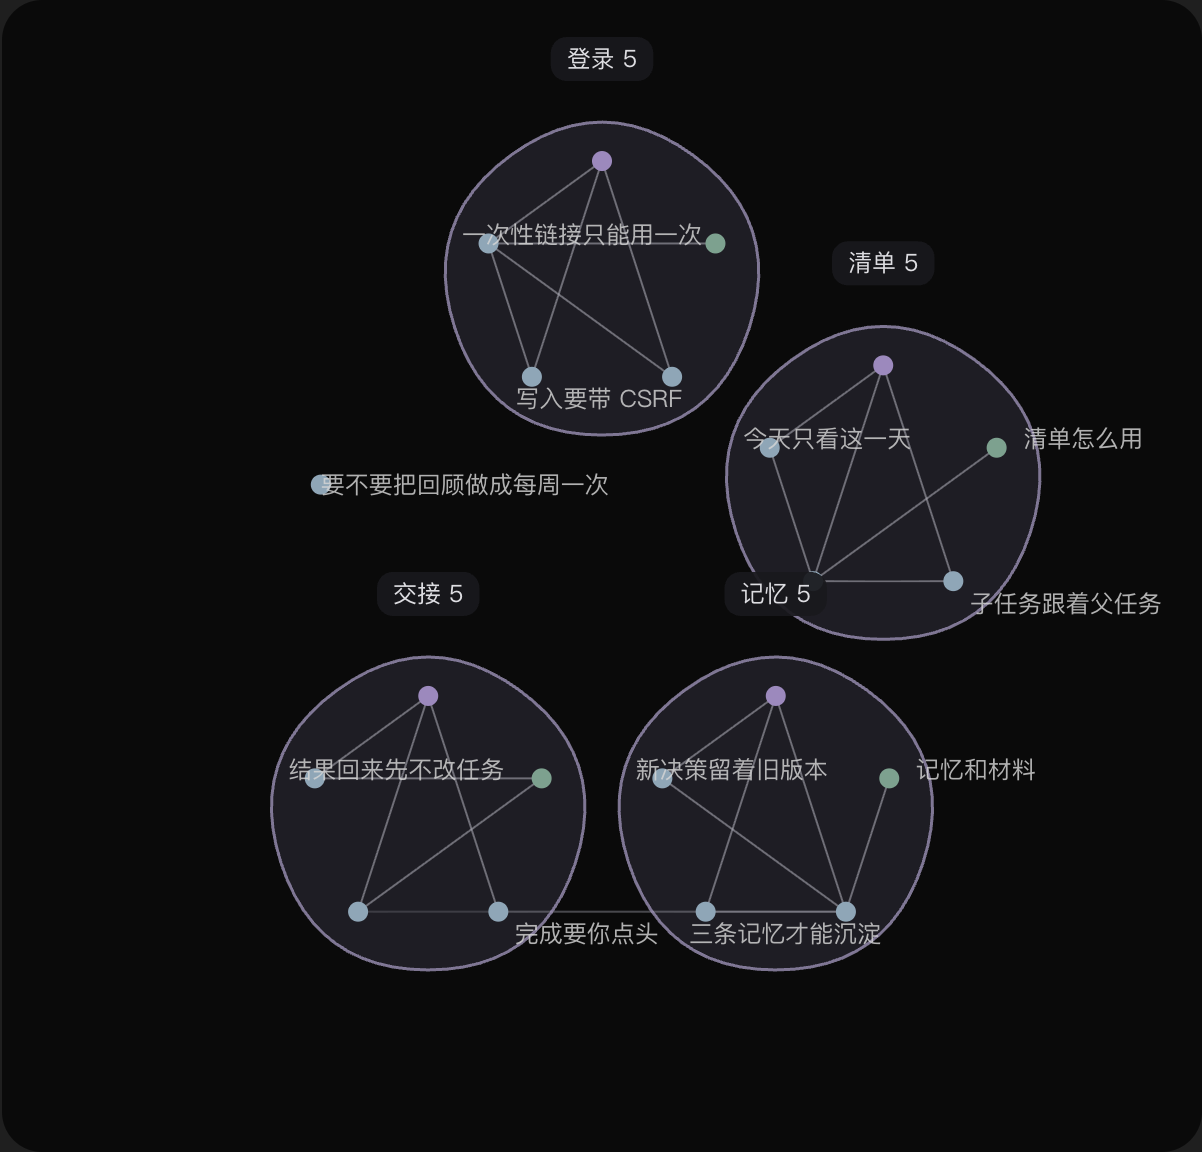
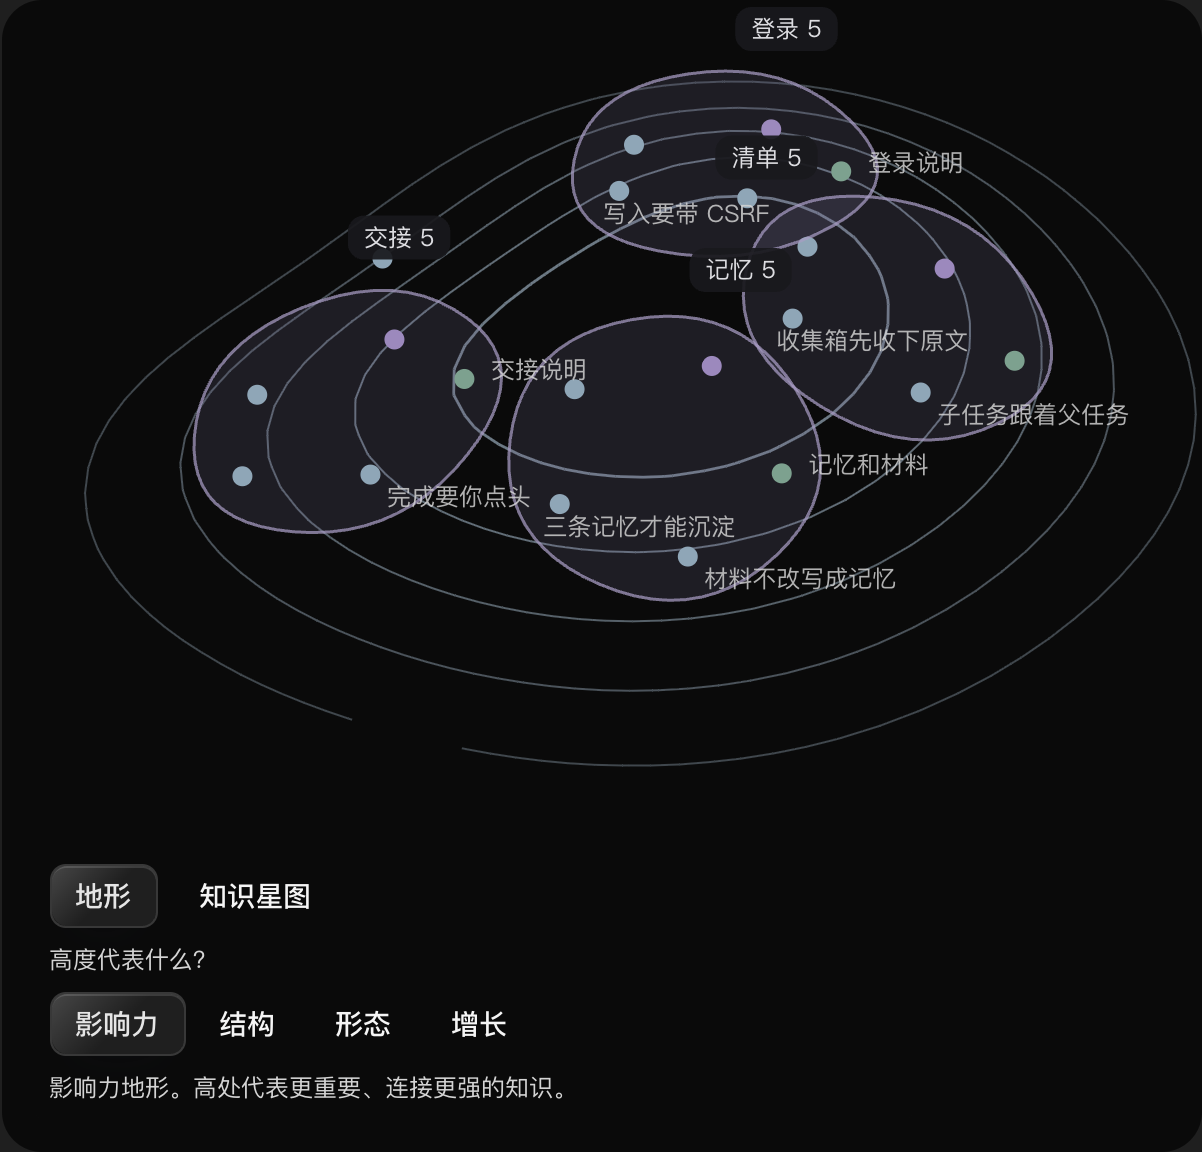
docs: use the 3D terrain for the README graph
Replace the flat community screenshot with the terrain view, where the sample groups sit on the ground and more important knowledge is higher.

diff --git a/README.md b/README.md
@@ -34,9 +34,9 @@
 
 <img src="./docs/readme/task-list-dark.png" width="880" alt="深色界面：同一清单和任务详情">
 
-项目资料里，确认过的记忆会按关系收成社区。下面用的是示例数据：登录、清单、记忆和交接各自成团，一条还没归类的疑问留在团外。
+项目资料里，确认过的记忆会按关系收成社区，也可以铺成三维地形。下面用的是示例数据：登录、清单、记忆和交接各自成团，高处是更重要、连接更多的知识。
 
-<img src="./docs/readme/knowledge-graph-dark.png" width="880" alt="深色关系图：示例项目记忆分成登录、清单、记忆、交接四个社区">
+<img src="./docs/readme/knowledge-graph-dark.png" width="880" alt="深色三维地形：示例项目记忆分成登录、清单、记忆、交接四个社区">
 
 <a id="quick-start"></a>
 
@@ -137,9 +137,9 @@ npm run dev
 
 Open the one-time login link printed by the API. The web UI is <http://127.0.0.1:5176> and the API is <http://127.0.0.1:3016>. Build `npm run build -w server` before connecting a host. Create a connection in the app, then point Codex, Claude Code, or Grok at `server/dist/mcp/index.js` with `WWA_API_URL` and `WWA_CONNECTION_TOKEN`. Grok uses `http://127.0.0.1:3016/mcp` with a bearer token. Ask the host to call `list_tasks`. Unapproved writes stay in the proposal queue.
 
-Confirmed memories group into communities. The sample below puts sign-in, lists, memory, and handoff in their own groups.
+Confirmed memories group into communities and can be shown as 3D terrain. The sample puts sign-in, lists, memory, and handoff on their own ground, with more important knowledge higher up.
 
-<img src="./docs/readme/knowledge-graph-dark.png" width="880" alt="Dark relationship graph: sample project memory grouped into four communities">
+<img src="./docs/readme/knowledge-graph-dark.png" width="880" alt="Dark 3D terrain: sample project memory grouped into four communities">
 
 ## 许可与贡献
 
